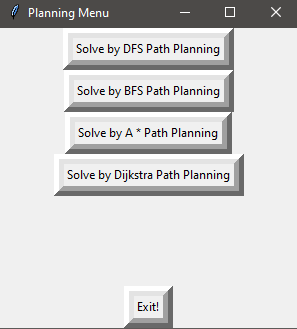
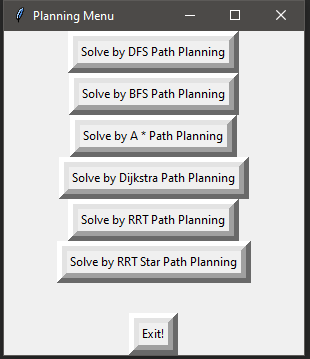
RRTStar readme update and video

diff --git a/all_path_planning.py b/all_path_planning.py
@@ -4,7 +4,7 @@ from Dijkstra import doDijkstra
 from BFS import doBFS
 from DFS import doDFS
 from RRT import doRRT
-from RRT_Star import doRRT_Star
+from RRT_Star import doRRTStar
 
 # Call tkinter Window and display all options
 
@@ -48,8 +48,8 @@ if __name__ == "__main__":
 
     # RRT * Path Planning Button
 
-    btn_RRT_Star = Button(root, text='Solve by RRT Path Planning', bd='10',
-                          command=doRRT_Star)
+    btn_RRT_Star = Button(root, text='Solve by RRT Star Path Planning', bd='10',
+                          command=doRRTStar)
 
     # Exit Button
 
